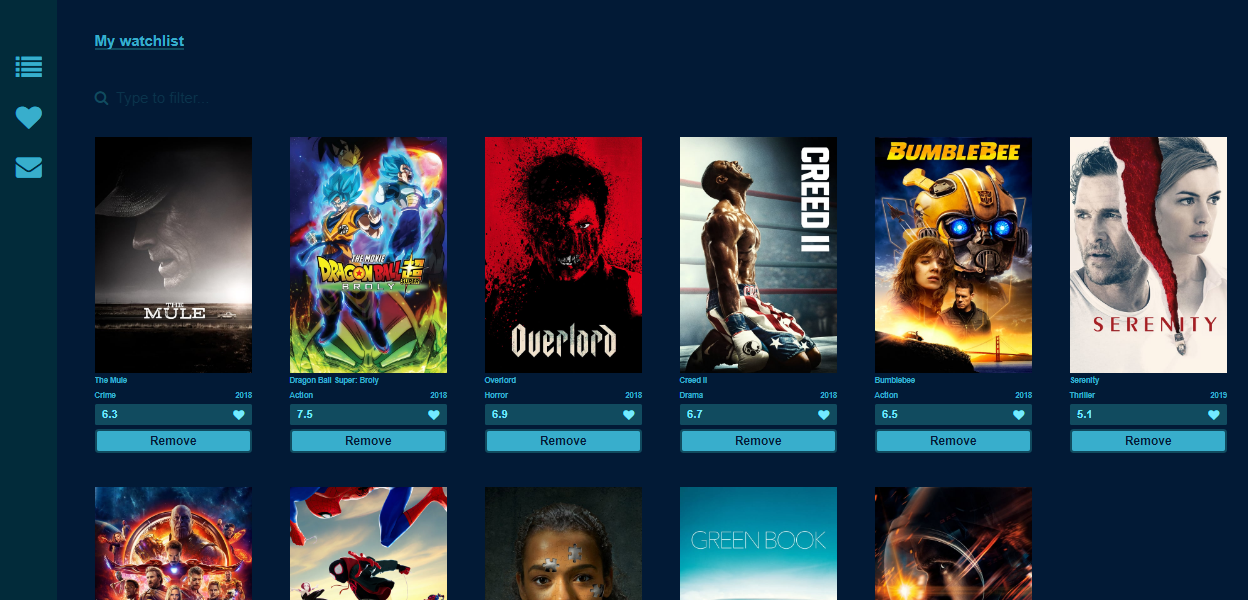
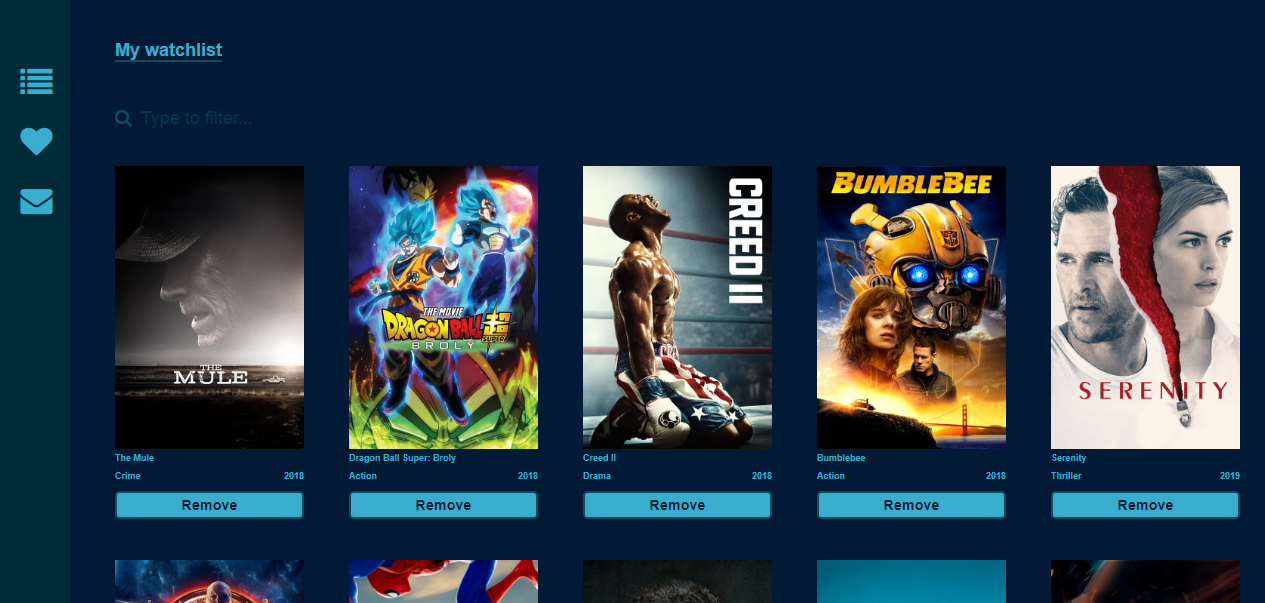
Fix Readme. Set filter for watchlist. Remove watchlist ratings bar. Code refactor.

diff --git a/app/containers/WatchList/index.js b/app/containers/WatchList/index.js
@@ -11,6 +11,7 @@ import PageTitle from '../../components/PageTitle/index';
 import Search from '../../components/Search/index';
 import { BASE_IMAGE_URL, GENRES } from '../App/constants';
 import { getReleaseYear } from '../../components/Util/dateTime';
+import { clearInput, filterByInput } from '../../components/Util/DOMOperations';
 import './WatchList.scss';
 
 /* eslint-disable react/prefer-stateless-function */
@@ -20,9 +21,14 @@ export default class WatchList extends Component {
 
     this.state = {
       movies: [],
+      moviesFiltered: [],
+      initialDataLoad: true,
     };
 
     this.triggerUpdate = this.triggerUpdate.bind(this);
+    this.filterByInput = filterByInput.bind(this);
+
+    this.searchInput = React.createRef();
   }
 
   componentWillMount() {
@@ -32,6 +38,10 @@ export default class WatchList extends Component {
       movies = JSON.parse(movies);
       this.setState({ movies });
     }
+  }
+
+  componentWillUnmount() {
+    clearInput(this.searchInput);
   }
 
   triggerUpdate() {
@@ -44,8 +54,9 @@ export default class WatchList extends Component {
   }
 
   render() {
-    const { movies } = this.state;
-    const moviesList = movies.map((movie, index) => {
+    const { movies, moviesFiltered, initialDataLoad } = this.state;
+    const moviesToShow = initialDataLoad ? movies : moviesFiltered;
+    const moviesList = moviesToShow.map((movie, index) => {
       // movie genre
       const mainGenreId = movie.genre_ids[0];
       const mainGenre = GENRES[mainGenreId];
@@ -75,7 +86,10 @@ export default class WatchList extends Component {
             <PageTitle text="My watchlist" />
           </div>
           <div className="watchlist__page--content__search">
-            <Search />
+            <Search
+              ref={this.searchInput}
+              onInputHandler={this.filterByInput}
+            />
           </div>
           <div className="watchlist__page--content__movies">{moviesList}</div>
         </div>

diff --git a/app/containers/HomePage/index.js b/app/containers/HomePage/index.js
@@ -16,7 +16,7 @@ import Overlay from '../../components/Overlay';
 import { BASE_API_URL, BASE_IMAGE_URL, GENRES } from '../App/constants';
 import { FETCH_CRITERIA_DEFAULT, PAGE_BUTTONS } from './constants';
 import { getReleaseYear } from '../../components/Util/dateTime';
-import { clearInput } from '../../components/Util/DOMOperations';
+import { clearInput, filterByInput } from '../../components/Util/DOMOperations';
 import './HomePage.scss';
 
 /* eslint-disable react/prefer-stateless-function */
@@ -40,7 +40,7 @@ export default class HomePage extends Component {
     this.hideMovieDetails = this.hideMovieDetails.bind(this);
     this.createPageButtonsList = this.createPageButtonsList.bind(this);
     this.fetchMoviesByCriteria = this.fetchMoviesByCriteria.bind(this);
-    this.filterByInput = this.filterByInput.bind(this);
+    this.filterByInput = filterByInput.bind(this);
 
     // refs:
     this.searchInput = React.createRef();
@@ -116,21 +116,6 @@ export default class HomePage extends Component {
       .catch(error => {
         console.log(error);
       });
-  }
-
-  filterByInput(inputValue = '') {
-    const preparedInputValue = inputValue.toLowerCase();
-
-    const { movies } = this.state;
-    let filteredMovies = movies.filter(movie => {
-      const preparedMovieTitle = movie.title.toLowerCase();
-      return preparedMovieTitle.includes(preparedInputValue);
-    });
-
-    this.setState({
-      moviesFiltered: filteredMovies,
-      initialDataLoad: false,
-    });
   }
 
   render() {

diff --git a/app/components/Movie/index.js b/app/components/Movie/index.js
@@ -106,16 +106,19 @@ class Movie extends Component {
           </div>
         </div>
 
-        <div className="movie__rating--group">
-          <div className="movie__rating--group__rating">{vote}</div>
-          <div className="movie__rating--group__actions">
-            <i
-              className="fa fa-heart"
-              onClick={() => this.saveMovieToWatchlist(movie)}
-            >
-            </i>
+        {
+          !isInsideWatchlist &&
+          <div className="movie__rating--group">
+            <div className="movie__rating--group__rating">{vote}</div>
+            <div className="movie__rating--group__actions">
+              <i
+                className="fa fa-heart"
+                onClick={() => this.saveMovieToWatchlist(movie)}
+              >
+              </i>
+            </div>
           </div>
-        </div>
+        }
 
         {
           isInsideWatchlist &&

diff --git a/app/components/Util/DOMOperations.js b/app/components/Util/DOMOperations.js
@@ -5,6 +5,23 @@ function clearInput(inputRef) {
   const inputElement = inputParentDiv.querySelector('input');
   inputElement.value = '';
 }
+
+function filterByInput(inputValue = '') {
+  const preparedInputValue = inputValue.toLowerCase();
+
+  const { movies } = this.state;
+  const moviesFiltered = movies.filter(movie => {
+    const preparedMovieTitle = movie.title.toLowerCase();
+    return preparedMovieTitle.includes(preparedInputValue);
+  });
+
+  this.setState({
+    moviesFiltered,
+    initialDataLoad: false,
+  });
+}
+
 export {
   clearInput,
+  filterByInput,
 };

diff --git a/README.md b/README.md
@@ -4,7 +4,7 @@
 
 ![Home page](https://i.imgur.com/ey8LLax.png)
 ![Movie details top](https://i.imgur.com/JkfvccW.png)
-![Watchlist](https://i.imgur.com/9Zc80aW.png)
+![Watchlist](https://i.imgur.com/C2vBsbk.png)
 ![Movie details bottom](https://i.imgur.com/ZY5mqBO.jpg)
 ![Movie trailer](https://i.imgur.com/tffYKhn.png)
 
